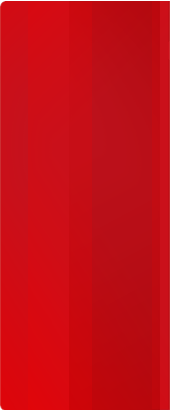
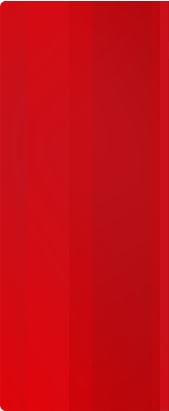
fixes

Changed region(s): [[0.9763, 0.0, 1.0, 1.0], [0.0, 0.0, 0.0296, 1.0]]

diff --git a/styles.css b/styles.css
@@ -36,7 +36,7 @@ body {
     text-align: center;
     margin-left: auto;
 }
-
+    
 .datetime p {
     margin: 0;
     padding-top: 0.2rem;
@@ -46,7 +46,7 @@ body {
 
 .main {
     margin: 1rem 0;
-}
+}  
 
 p, a {
     font-size: 0.7rem;
@@ -82,14 +82,22 @@ p, a {
 }
 
 .menu {
-    background: url(images/red-menu.png) no-repeat ;
+    background: url(images/red-menu.png) repeat-y;
+    background-origin: border-box;
+    padding-top: 1rem;
 }
 
+.menu ul {
+    margin: 1.2rem;
+    padding: 0;
+    list-style-type: none;
+}
 
 .menu .menu-link {
     color: #ffffff;
     font-size: 0.75rem;
     text-decoration-line: none;
+    margin: 0.8rem 0;
 }
 
 .menu ul li .menu-link {
@@ -105,7 +113,7 @@ p, a {
     position: absolute;
     background-image: url(images/list-activ.png);
     background-repeat: no-repeat;
-    background-position: 0 -3px;
+    background-position: -1px -3px;
     display: block;
     flex-direction: row;
     width: 15px;
@@ -113,16 +121,14 @@ p, a {
     right: -19px;
 }
 
-.menu ul {
-    margin: 1rem 2rem 1rem 0;
-    list-style-type: none;
-    line-height: 1.8rem;
-}
-
 .useful ul {
     margin-right: 2.5rem;
     list-style-type: none;
     line-height: 1.6rem;
+}
+
+.useful ul li a {
+    color: #495e78;
 }
 
 .contacts div, .useful h4 {
@@ -136,10 +142,10 @@ p, a {
 
 .contacts div p {
     margin: 0;
-    padding: 0;
+    padding: 0;   
 }
 
-.contacts a, .nav a {
+.contacts a, .nav a { 
     color: #414042;
     text-decoration-line: none;
 }
@@ -161,7 +167,7 @@ p, a {
 .about-us, .banner {
     height: 13rem;
     margin-bottom: 1rem;
-    padding: 1rem;
+    padding: 1rem; 
 }
 
 .about-us {
@@ -171,7 +177,6 @@ p, a {
 
 .about-us h4 {
     margin: 0;
-    text-align: center;
 }
 
 .about-us img {
@@ -192,6 +197,10 @@ p, a {
 .content li {
     list-style-type: none;
     list-style-image: url(images/marker.png)
+}
+
+.content ul li a:hover {
+    text-decoration-line: none;
 }
 
 .content div {
@@ -226,4 +235,8 @@ p, a {
 
 .footer p {
     margin: 0;
+}
+
+.footer .nav a:hover {
+    text-decoration-line: underline;
 }

diff --git a/index.html b/index.html
@@ -12,8 +12,8 @@
         <div class="header">
             <div class="head">
                 <div class="icons">
-                    <a href="mailto:info@avondhures.ie"><img src="images/tel.png"></a>
-                    <a href="tel:+35302524451"><img src="images/e-mail.png"></a>
+                    <a href="index.html"><img src="images/tel.png"></a>
+                    <a href="mailto:info@avondhures.ie"><img src="images/e-mail.png"></a>
                 </div>
                 <div class="datetime">
                    <p>ISSUE: Sept-13-2007</p>
